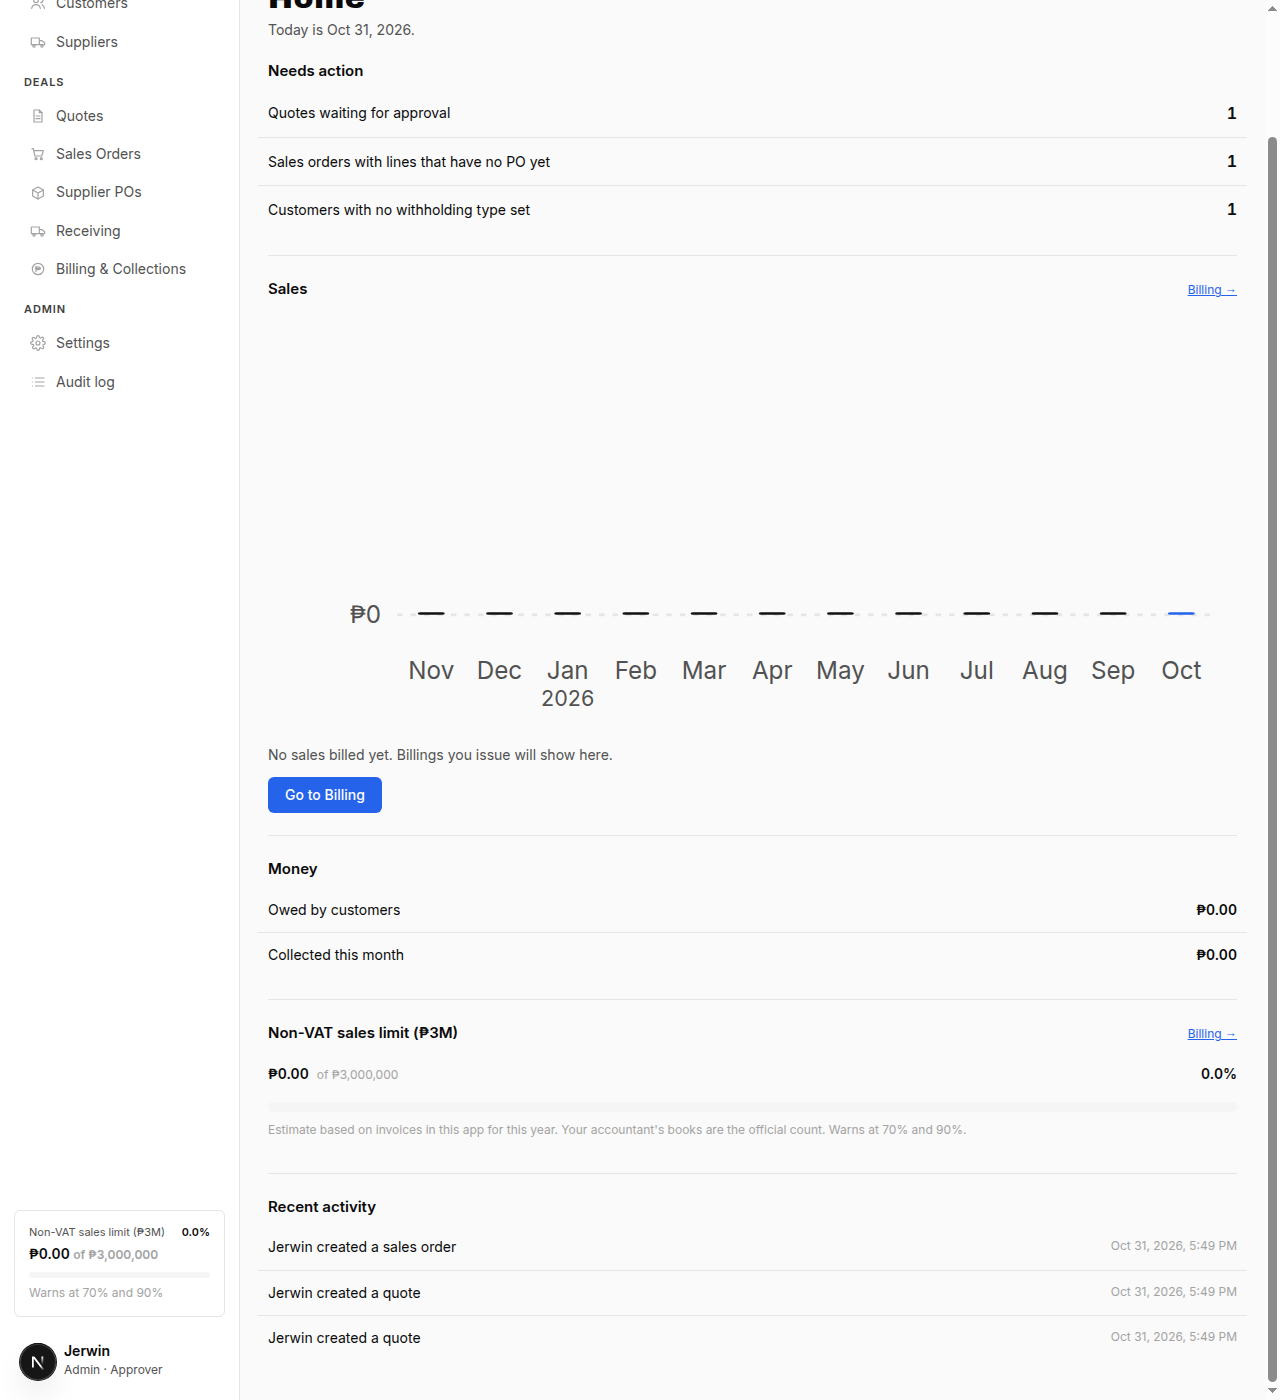
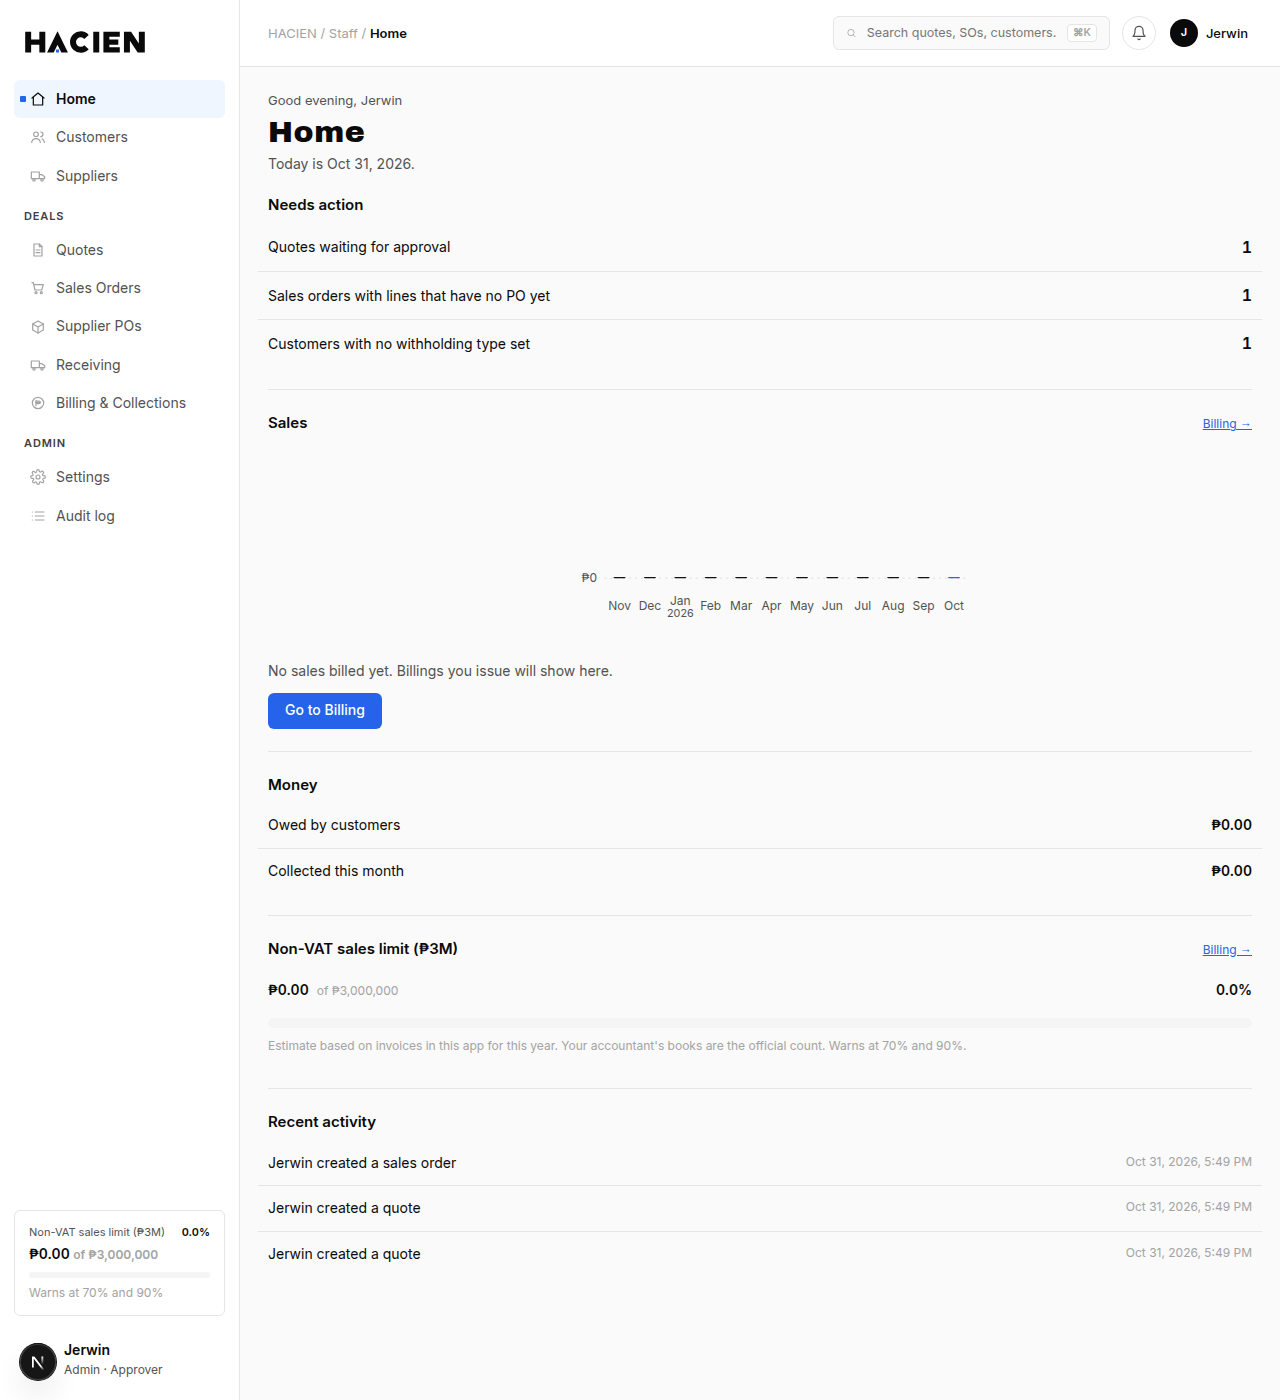
fix(home-sales): scale-stable chart labels, plain change wording
Keep Sales axis/month labels at ~12px on screen via inverse viewBox
font-size; cap chart height at 180px on wide layouts. Change vs last
month is plain ink text: Up N% / Down N% / Same / —. Note in the sales
query that credit notes are not subtracted yet.

diff --git a/src/components/home/SalesChart.tsx b/src/components/home/SalesChart.tsx
@@ -1,13 +1,19 @@
 "use client";
 
-import { useId, useState } from "react";
+import { useId, useLayoutEffect, useRef, useState } from "react";
 import { formatPeso } from "@/lib/format";
 import { formatSalesAxisPeso, type HomeSalesMonth } from "@/lib/home/sales";
+
+/** On-screen label size (matches .small / muted grey elsewhere). */
+const LABEL_PX = 12;
 
 /**
  * Plain SVG bar chart for Home Sales. Thin black bars; current month #2563EB.
  * Hover / tap shows the month and full ₱ amount. Narrow viewports use the
  * last 6 months (caller passes the matching slice via `months`).
+ *
+ * Axis / month labels use an inverse font-size so they stay ~12px on screen
+ * even when the viewBox scales up at wide widths.
  */
 export function SalesChart({
   months,
@@ -18,28 +24,52 @@ export function SalesChart({
 }) {
   const [active, setActive] = useState<number | null>(null);
   const tipId = useId();
+  const svgRef = useRef<SVGSVGElement>(null);
+  // Font size in viewBox units → LABEL_PX CSS pixels after the SVG scales.
+  const [labelFont, setLabelFont] = useState(LABEL_PX);
   const maxTick = Math.max(0, ...axisTicks, ...months.map((m) => Number(m.amount)));
   const chartMax = maxTick > 0 ? maxTick : 1;
 
   const W = 360;
   const H = 148;
-  const padL = 48;
+  const padL = 52;
   const padR = 8;
-  const padT = 12;
-  const padB = 34;
+  const padT = 14;
+  const padB = 36;
   const innerW = W - padL - padR;
   const innerH = H - padT - padB;
   const n = Math.max(1, months.length);
   const slot = innerW / n;
   const barW = Math.max(3, Math.min(10, slot * 0.45));
 
+  useLayoutEffect(() => {
+    const svg = svgRef.current;
+    if (!svg) return;
+    const sync = () => {
+      const w = svg.clientWidth;
+      const h = svg.clientHeight;
+      if (w <= 0 || h <= 0) return;
+      // Uniform meet-scale: labels stay ~LABEL_PX CSS pixels after transform.
+      const scale = Math.min(w / W, h / H);
+      if (scale <= 0) return;
+      setLabelFont(LABEL_PX / scale);
+    };
+    sync();
+    const ro = new ResizeObserver(sync);
+    ro.observe(svg);
+    return () => ro.disconnect();
+  }, []);
+
   const activeMonth = active !== null ? months[active] : null;
+  const yearFont = labelFont * 0.9;
 
   return (
     <div className="home-sales-chart">
       <svg
+        ref={svgRef}
         className="home-sales-svg"
         viewBox={`0 0 ${W} ${H}`}
+        preserveAspectRatio="xMidYMid meet"
         role="img"
         aria-label="Billed sales for the last months"
       >
@@ -54,7 +84,13 @@ export function SalesChart({
                 y2={y}
                 className="home-sales-grid"
               />
-              <text x={padL - 6} y={y + 3} textAnchor="end" className="home-sales-axis">
+              <text
+                x={padL - 6}
+                y={y + labelFont * 0.35}
+                textAnchor="end"
+                className="home-sales-axis"
+                fontSize={labelFont}
+              >
                 {formatSalesAxisPeso(t)}
               </text>
             </g>
@@ -67,7 +103,7 @@ export function SalesChart({
           // Zero months still render a zero-height bar mark (not a gap in the slot).
           const x = padL + slot * i + (slot - barW) / 2;
           const y = padT + innerH - h;
-          const labelY = H - 10;
+          const labelY = H - (m.yearLabel ? 14 : 10);
           const isActive = active === i;
           return (
             <g key={m.key}>
@@ -93,15 +129,17 @@ export function SalesChart({
                 y={labelY}
                 textAnchor="middle"
                 className="home-sales-xlabel"
+                fontSize={labelFont}
               >
                 {m.shortLabel}
               </text>
               {m.yearLabel ? (
                 <text
                   x={padL + slot * i + slot / 2}
-                  y={labelY + 10}
+                  y={labelY + yearFont + 1}
                   textAnchor="middle"
                   className="home-sales-xyear"
+                  fontSize={yearFont}
                 >
                   {m.yearLabel}
                 </text>

diff --git a/tests/db/home-sales.db.test.ts b/tests/db/home-sales.db.test.ts
@@ -22,13 +22,16 @@ import { makeCustomer, makeSupplier, makeUser, tag } from "./fixtures";
 describe.skipIf(!env.hasDb)("home sales (MySQL)", () => {
   let admin: DocActor;
   let staff: DocActor;
-  let invoiceSeq = 900_000 + Math.floor(Math.random() * 40_000);
+  let invoiceSeq = 0;
   const nextInvoice = () => ++invoiceSeq;
 
   beforeAll(async () => {
     admin = await makeUser("costs");
     staff = await makeUser("staff");
     await ensureWideBooklet();
+    // Stay clear of booklet numbers already used on the shared test DB.
+    const maxNo = await db.billing.aggregate({ _max: { invoiceNo: true } });
+    invoiceSeq = Math.max(1_000_000, Number(maxNo._max.invoiceNo ?? 0)) + Math.floor(Math.random() * 100);
   });
 
   afterAll(async () => {
@@ -145,25 +148,30 @@ describe.skipIf(!env.hasDb)("home sales (MySQL)", () => {
 
     const t = tag();
     const { customer, so } = await openSo(taxYear, "9999999.00", `Sales Void Cust ${t}`);
-    // Large keep so this customer lands in top 3 even on a shared test DB.
     const keep = await bill(so.id, "250000.00", invoiceDate);
     const gone = await bill(so.id, "8000.00", invoiceDate);
     await voidBilling(gone.id, "Wrong amount", admin);
 
-    const before = await loadHomeSales(admin, { now });
+    const sales = await loadHomeSales(admin, { now });
     const meter = await getNonVatMeter(snap.settings.taxYear, now);
-    expect(before).not.toBeNull();
-    expect(Number(before!.thisYear)).toBe(meter.used);
+    expect(sales).not.toBeNull();
+    // Year total matches Non-VAT (both exclude voids).
+    expect(Number(sales!.thisYear)).toBe(meter.used);
     expect(await getGrossSalesYtd(taxYear, now)).toBe(meter.used);
 
-    const bar = before!.months.find((row) => row.key === monthKey);
+    const bar = sales!.months.find((row) => row.key === monthKey);
     expect(Number(bar!.amount)).toBeGreaterThanOrEqual(250_000);
 
-    const ours = before!.topCustomers.find((c) => c.customerId === customer.id);
-    expect(ours).toBeTruthy();
-    // Voided ₱8k must not inflate this customer's total (only the kept ₱250k).
-    expect(Number(ours!.amount)).toBe(250_000);
+    // Customer YTD from non-void rows only — voided ₱8k must not count.
+    const kept = await db.billing.aggregate({
+      where: { customerId: customer.id, status: { not: "VOID" } },
+      _sum: { amount: true },
+    });
+    expect(Number(kept._sum.amount ?? 0)).toBe(250_000);
     expect(keep.status).not.toBe("VOID");
+    // If they make the top-3 cut on this shared DB, their amount is the kept total only.
+    const ours = sales!.topCustomers.find((c) => c.customerId === customer.id);
+    if (ours) expect(Number(ours.amount)).toBe(250_000);
   });
 
   it("counts a billing on the last calendar day of the month (11:30 PM PHT still that month)", async () => {

diff --git a/src/lib/home/sales.ts b/src/lib/home/sales.ts
@@ -63,9 +63,10 @@ export function salesMonthLabel(key: MonthKey, prevKey: MonthKey | null): { shor
 }
 
 /**
- * Change vs last month for the Sales row.
- * - last month is 0 → "—" (no percent)
- * - otherwise signed integer percent (floored toward zero for display)
+ * Change vs last month for the Sales row (plain wording, no colour / arrows).
+ * - last month is 0 or missing → "—"
+ * - equal → "Same"
+ * - otherwise "Up N%" / "Down N%" (integer %, floored toward zero)
  */
 export function salesChangeVsLastMonth(
   thisMonth: number | string,
@@ -76,12 +77,12 @@ export function salesChangeVsLastMonth(
   if (!Number.isFinite(prev) || prev === 0) return { label: "—", tone: "none" };
   if (!Number.isFinite(cur)) return { label: "—", tone: "none" };
   const pct = ((cur - prev) / prev) * 100;
-  if (pct === 0) return { label: "0%", tone: "flat" };
+  if (pct === 0) return { label: "Same", tone: "flat" };
   const rounded = pct > 0 ? Math.floor(pct) : Math.ceil(pct);
-  if (rounded > 0) return { label: `+${rounded}%`, tone: "up" };
-  if (rounded < 0) return { label: `${rounded}%`, tone: "down" };
+  if (rounded > 0) return { label: `Up ${rounded}%`, tone: "up" };
+  if (rounded < 0) return { label: `Down ${Math.abs(rounded)}%`, tone: "down" };
   // Non-zero but rounds to 0 (e.g. 0.4%) — treat as flat.
-  return { label: "0%", tone: "flat" };
+  return { label: "Same", tone: "flat" };
 }
 
 /** Axis tick labels like ₱500K / ₱1.0M (compact, always with ₱). */

diff --git a/tests/home-sales.test.ts b/tests/home-sales.test.ts
@@ -55,15 +55,24 @@ describe("home sales month windows (Asia/Manila)", () => {
 });
 
 describe("home sales change vs last month", () => {
-  it("returns — when last month is 0", () => {
+  it("returns an em dash when last month is 0 or data is missing", () => {
     expect(salesChangeVsLastMonth(100, 0)).toEqual({ label: "—", tone: "none" });
     expect(salesChangeVsLastMonth(0, 0)).toEqual({ label: "—", tone: "none" });
+    expect(salesChangeVsLastMonth(100, Number.NaN)).toEqual({ label: "—", tone: "none" });
   });
 
-  it("formats up, down and flat", () => {
-    expect(salesChangeVsLastMonth(150, 100)).toEqual({ label: "+50%", tone: "up" });
-    expect(salesChangeVsLastMonth(50, 100)).toEqual({ label: "-50%", tone: "down" });
-    expect(salesChangeVsLastMonth(100, 100)).toEqual({ label: "0%", tone: "flat" });
+  it("says Up N% when this month is higher", () => {
+    expect(salesChangeVsLastMonth(188, 100)).toEqual({ label: "Up 88%", tone: "up" });
+    expect(salesChangeVsLastMonth(150, 100)).toEqual({ label: "Up 50%", tone: "up" });
+  });
+
+  it("says Down N% when this month is lower", () => {
+    expect(salesChangeVsLastMonth(88, 100)).toEqual({ label: "Down 12%", tone: "down" });
+    expect(salesChangeVsLastMonth(50, 100)).toEqual({ label: "Down 50%", tone: "down" });
+  });
+
+  it("says Same when equal", () => {
+    expect(salesChangeVsLastMonth(100, 100)).toEqual({ label: "Same", tone: "flat" });
   });
 });
 

diff --git a/src/app/globals.css b/src/app/globals.css
@@ -4251,25 +4251,20 @@ button.contact-card-add {
   width: 100%;
   height: auto;
   max-width: 100%;
+  /* Cap tall empty area above bars on wide Home layouts (~160–200px). */
+  max-height: 180px;
 }
 .home-sales-grid {
   stroke: var(--border);
   stroke-width: 1;
   stroke-dasharray: 2 3;
 }
-.home-sales-axis {
-  fill: var(--text-2);
-  font-size: 9px;
-  font-family: inherit;
-}
+.home-sales-axis,
 .home-sales-xlabel,
 .home-sales-xyear {
   fill: var(--text-2);
-  font-size: 9px;
   font-family: inherit;
-}
-.home-sales-xyear {
-  font-size: 8px;
+  /* Font size set in viewBox units from JS so on-screen size stays ~12px. */
 }
 .home-sales-bar {
   fill: #111;
@@ -4317,14 +4312,8 @@ button.contact-card-add {
 .home-sales-rows .home-sales-stat:hover {
   background: transparent;
 }
-.home-sales-change.tone-up {
-  color: var(--green);
-}
-.home-sales-change.tone-down {
-  color: var(--red);
-}
-.home-sales-change.tone-flat,
-.home-sales-change.tone-none {
+/* Plain ink — no up/down colour (direction is in the words). */
+.home-sales-change {
   color: var(--text);
 }
 .home-sales-top-block {
@@ -4388,6 +4377,10 @@ button.contact-card-add {
   .home-sales-chart {
     margin-left: -4px;
     margin-right: -4px;
+  }
+  /* Keep natural aspect at phone widths (don't force the desktop height cap). */
+  .home-sales-svg {
+    max-height: none;
   }
 }
 

diff --git a/src/components/home/HomeSections.tsx b/src/components/home/HomeSections.tsx
@@ -99,9 +99,7 @@ export function HomeSalesSection({ sales }: { sales: HomeSales }) {
             <div className="home-money-row home-sales-stat">
               <span className="home-money-label">Change vs last month</span>
               <span className="home-money-amounts">
-                <span className={`num strong home-sales-change tone-${sales.change.tone}`}>
-                  {sales.change.label}
-                </span>
+                <span className="num strong home-sales-change">{sales.change.label}</span>
               </span>
             </div>
           </li>

diff --git a/src/lib/home/sales-data.ts b/src/lib/home/sales-data.ts
@@ -54,6 +54,10 @@ export async function loadHomeSales(
   const to = grossSalesYtdEnd(now, taxYearStart(taxYear + 1));
 
   const [rows, thisYear] = await Promise.all([
+    // Same non-void / invoiceDate filter as Non-VAT (billingsGrossSales).
+    // Credit notes are not subtracted — the app has none yet. When credit-note
+    // documents exist, subtract them here (and in billingsGrossSales) so Home
+    // Sales and the Non-VAT meter stay in lockstep.
     db.billing.findMany({
       where: {
         status: { not: "VOID" },
